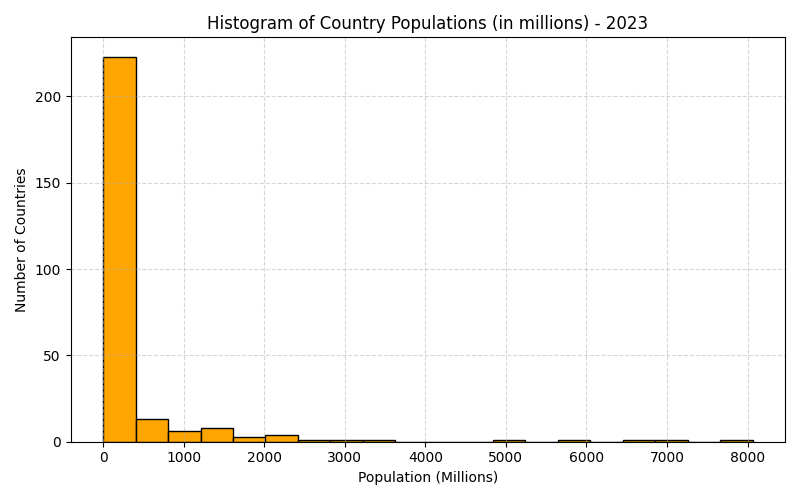
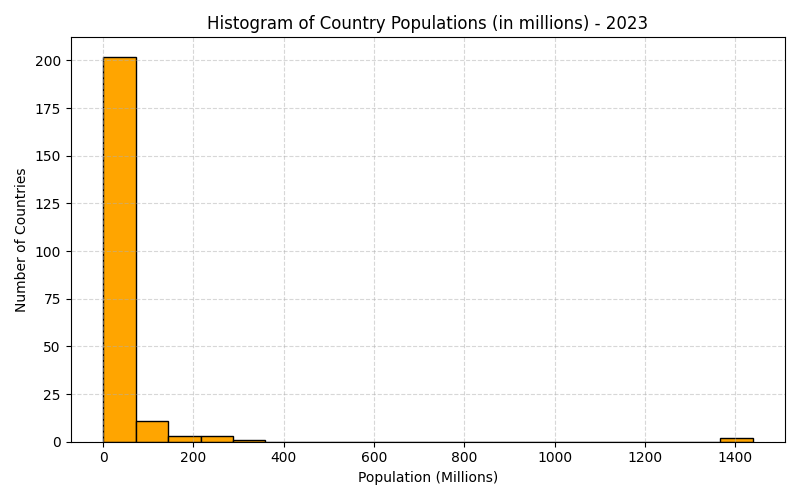
good

diff --git a/population_visualization.py b/population_visualization.py
@@ -1,25 +1,35 @@
 import pandas as pd
 import matplotlib.pyplot as plt
 
-# Load the dataset
-df = pd.read_csv("dataset/API_SP.POP.TOTL_DS2_en_csv_v2_2590.csv", skiprows=4)
+# Loading dataset
+df = pd.read_csv("API_SP.POP.TOTL_DS2_en_csv_v2_2590.csv", skiprows=4)
 
-# Select year
+# Selecting year
 year = "2023"
 population_2023 = df[["Country Name", year]].dropna()
 
+# Removed non-countries
+non_countries = [
+  "World","IDA & IBRD total","Low & middle income","Middle income","IBRD only","Early-demographic dividend","Lower middle income","Upper middle income","East Asia & Pacific","Late-demographic dividend","East Asia & Pacific (excluding high income)","East Asia & Pacific (IDA & IBRD countries)","South Asia","South Asia (IDA & IBRD)","IDA total","High income","OECD members","IDA only","Sub-Saharan Africa","Sub-Saharan Africa (IDA & IBRD countries)","Sub-Saharan Africa (excluding high income)","Least developed countries: UN classification","Post-demographic dividend","Pre-demographic dividend","Fragile and conflict affected situations","Europe & Central Asia","Heavily indebted poor countries (HIPC)","Africa Eastern and Southern","Low income","Latin America & Caribbean","Latin America & the Caribbean (IDA & IBRD countries)","IDA blend","Latin America & Caribbean (excluding high income)","Africa Western and Central","Middle East & North Africa","Arab World","Europe & Central Asia (IDA & IBRD countries)","Not classified","European Union","Middle East & North Africa (excluding high income)","Middle East & North Africa (IDA & IBRD countries)","North America","Euro area","Europe & Central Asia (excluding high income)"
+]
+
+population_2023 = population_2023[~population_2023['Country Name'].isin(non_countries)]
+
+
+
 # 1. Bar Chart: Top 10 Most Populous Countries in 2023 
 top_10 = population_2023.sort_values(by=year, ascending=False).head(10)
-
+top_10[year] = top_10[year] / 1_000_000
 plt.figure(figsize=(10, 6))
 plt.bar(top_10["Country Name"], top_10[year], color='skyblue')
 plt.xticks(rotation=45, ha='right')
 plt.title("Top 10 Most Populous Countries in 2023")
 plt.xlabel("Country")
-plt.ylabel("Population")
+plt.ylabel("Population (Millions)")
 plt.tight_layout()
 plt.savefig("top10_population_2023.png")
 plt.show()
+
 
 #  2. Histogram: Population Distribution (in Millions) 
 plt.figure(figsize=(8, 5))

diff --git a/population_by_region_income.py b/population_by_region_income.py
@@ -17,7 +17,7 @@ merged = merged_df[["Country Name", "Region", "IncomeGroup", year]].dropna()
 # Convert population to millions for readability
 merged[year] = merged[year] / 1_000_000
 
-# --- 1. Bar Chart: Average Population by Region ---
+# 1. Bar Chart: Average Population by Region
 region_avg = merged.groupby("Region")[year].mean().sort_values(ascending=False)
 
 plt.figure(figsize=(10, 6))
@@ -29,7 +29,7 @@ plt.tight_layout()
 plt.savefig("avg_population_by_region.png")
 plt.show()
 
-# --- 2. Bar Chart: Average Population by Income Group ---
+# 2. Bar Chart: Average Population by Income Group
 income_avg = merged.groupby("IncomeGroup")[year].mean().sort_values(ascending=False)
 
 plt.figure(figsize=(8, 5))
